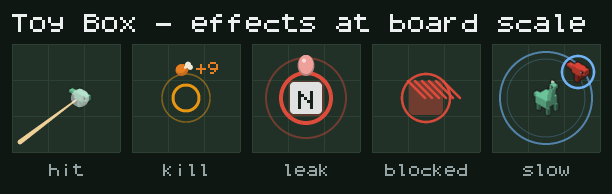
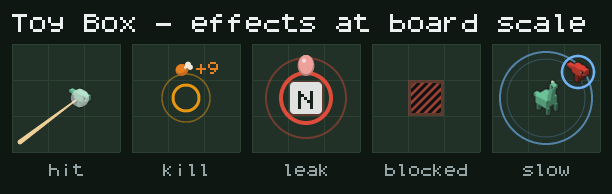
art: the refused cell in the frames is ink hatching, as §4 says (ARB-196)
The frame generator was the last place still drawing the rejected version
of the refusal: one hue at two alphas. `drawBlocked` and the effects
plate's `blocked` tile both hatched in `refusal` over a `refusal` fill,
and both carried a comment claiming that was the second channel.

It is not, and §4 of docs/01-art-hud-and-audio.md is explicit about why:
the bright spawn, checkpoint and nest markers lift the fill to the
stripe's own luminance and erase the hatching, and those four cells
always refuse. The stripes have to be a fixed dark the cell underneath
cannot climb to.

This matters more in the frames than anywhere else. The frames are what
a reviewer reads to decide whether the spec works, so a frame drawing
red-on-red is evidence for a specification nobody shipped.

Both marks now go through one `drawRefusedCell`, which draws exactly what
`BoardScene` draws: `refusal` at 0.45 in the cell inset 3 at radius 6,
then 3px stripes of `ink` at alpha 1 on x + y = k stepped 8, clipped to
that square. The numbers are not the frame's to choose — tools/art/layout.ts
re-exports the client's 36px cell precisely so the two cannot disagree.

Dropped on the way, because the client draws neither: the red border
stroke on the board frame and the red ring on the effects tile. A third
red mark is what made a red-on-red cell look acceptable. The tile keeps
the 250ms cell flash, caught mid-fade at the alpha BoardScene fades it
through, because that is on screen during a refusal.
[…]

Changed region(s): [[0.652, 0.3711, 0.7761, 0.6495]]

diff --git a/tools/art/frame.ts b/tools/art/frame.ts
@@ -54,6 +54,11 @@ function roundRect(x: number, y: number, w: number, h: number, r: number): Shape
   );
 }
 
+/** `s` kept only where it lands inside `box`: `s` minus everything outside. */
+function clip(s: Shape, box: Shape): Shape {
+  return subtract(s, subtract(rect(-9e3, -9e3, 1.8e4, 1.8e4), box));
+}
+
 function ring(cx: number, cy: number, r: number, width: number): Shape {
   return {
     bbox: [cx - r - width, cy - r - width, cx + r + width, cy + r + width],
@@ -507,19 +512,42 @@ const cellTopLeft = (x: number, y: number) => ({ x: x * CELL_PX, y: GRID_TOP + y
 const cellCentre = (x: number, y: number) => ({ x: x * CELL_PX + CELL_PX / 2, y: GRID_TOP + y * CELL_PX + CELL_PX / 2 });
 
 /**
- * A blocked placement. Red is the loud channel and the diagonal hatching is
- * the second one, so the refusal still reads to an eye that cannot see the
- * red at all. The border is a stroke — an expanded shape minus the original
- * — not a fill, or the cell goes solid and hides what is underneath.
+ * §4's refused cell, drawn where the client draws it and with the client's
+ * numbers: `refusal` at 0.45 in the cell inset 3px at radius 6, and over it
+ * 3px stripes of `ink` at alpha 1 on lines of slope -1 stepped 8 across that
+ * square. `BoardScene.hatchCell` is the thing this mirrors.
+ *
+ * **The stripes are `ink`, not `refusal`, and the frame is the place that
+ * matters most.** One hue at two alphas is not a second channel: the bright
+ * spawn, checkpoint and nest markers lift the fill to the stripe's own
+ * luminance and erase the hatching, and those four cells always refuse. §4
+ * carries the measurement. A frame that kept the red-on-red version would
+ * be evidence for a specification nobody shipped — and the frames are what
+ * a reviewer reads to decide whether the spec works.
+ *
+ * **The alpha is not the frame's to choose either.** tools/art/layout.ts
+ * re-exports the client's 36px cell precisely so this plate and the scene
+ * cannot disagree, so a softer stripe here would be the same kind of lie in
+ * a quieter register. There is no border stroke: the client draws none, and
+ * a third red mark is exactly what makes a red-on-red cell look fine.
  */
-function drawBlocked(r: Raster, x: number, y: number): void {
-  const b = cellCentre(x, y);
-  const inner = roundRect(b.x - 16, b.y - 16, 32, 32, 5);
-  r.fill(inner, BOARD.refusal, 0.32);
-  for (let i = -18; i <= 18; i += 7) {
-    r.fill(subtract(taper(b.x + i, b.y - 17, b.x + i + 17, b.y, 1.1), subtract(rect(-9e3, -9e3, 1.8e4, 1.8e4), inner)), BOARD.refusal, 0.85);
+function drawRefusedCell(r: Raster, x0: number, y0: number): void {
+  const size = CELL_PX - 6;
+  const square = rect(x0 + 3, y0 + 3, size, size);
+  r.fill(roundRect(x0 + 3, y0 + 3, size, size, 6), BOARD.refusal, 0.45);
+  // x + y = k, k stepped by 8, each end clamped into the square — the same
+  // walk `hatchCell` does. 3px of stroke is a radius of 1.5 either side, and
+  // the stripes clip to the square the client hands the routine.
+  for (let k = 8; k < size * 2; k += 8) {
+    const a = Math.max(0, k - size);
+    r.fill(clip(taper(x0 + 3 + a, y0 + 3 + k - a, x0 + 3 + k - a, y0 + 3 + a, 1.5), square), BOARD.ink, 1);
   }
-  r.fill(subtract(roundRect(b.x - 18, b.y - 18, 36, 36, 6), inner), BOARD.refusal, 0.95);
+}
+
+/** The refused cell on a live board frame, by cell coordinate. */
+function drawBlocked(r: Raster, x: number, y: number): void {
+  const p = cellTopLeft(x, y);
+  drawRefusedCell(r, p.x, p.y);
 }
 
 /**
@@ -624,11 +652,14 @@ export function effectsPlate(d: Direction): Raster {
         eggIcon(r, c.x - 10, c.y - 46, 20, 24, true);
         break;
       case "blocked":
-        // red is the loud channel; the hatching is the second one, so the
-        // refusal still reads with no colour vision at all
-        r.fill(roundRect(c.x - 17, c.y - 17, 34, 34, 5), BOARD.refusal, 0.4);
-        for (let k = -18; k <= 18; k += 7) r.fill(taper(c.x + k, c.y - 17, c.x + k + 17, c.y, 1.2), BOARD.refusal, 0.9);
-        r.fill(ring(c.x, c.y, 24, 2.5), BOARD.refusal, 0.92);
+        // What is on screen during a refusal, and nothing else: the 250ms
+        // `refusal` cell flash caught mid-fade — `t * 0.6` at t = 0.5 in
+        // BoardScene's `flash` case — under §4's refused-cell preview, which
+        // stays up for as long as the finger's cell stays hovered. No ring:
+        // the ring on a refusal is the tap ring, it is `selection` and it
+        // expands to 54px, so it belongs to no one cell.
+        r.fill(rect(x0 + CELL_PX, y0 + CELL_PX, CELL_PX, CELL_PX), BOARD.refusal, 0.3, 1);
+        drawRefusedCell(r, x0 + CELL_PX, y0 + CELL_PX);
         break;
       case "slow": {
         blitScaled(r, sheet.dino("longneck", 3), c.x, c.y, CELL_PX + 4);

diff --git a/tools/art/directions.ts b/tools/art/directions.ts
@@ -64,6 +64,14 @@ export const BOARD = {
   meat: rgb(0xe67e22),
   eggs: rgb(0xf5f6fa),
   refusal: rgb(0xe74c3c),
+  // `COLORS.ink` in packages/game/src/theme.ts, and flat on purpose. Every
+  // Direction's palette has an `ink` too, but that one is a dark tint of a
+  // *kind hue* — it is the outline around an animal. This is the board's
+  // ink: the mark laid over a cell whose colour the mark does not control.
+  // §4 is explicit that the value has to be fixed ("a fixed dark that the
+  // cell underneath cannot climb to"), so the refusal hatching cannot take
+  // a per-direction value without losing the property it was chosen for.
+  ink: rgb(0x111111),
   button: rgb(0x2e4a38),
   // M2's 3f7a55 put #ecf0f1 at 4.44:1 — just under AA. Darkened until it
   // clears 4.5 with margin; the Send button is the one control a player
